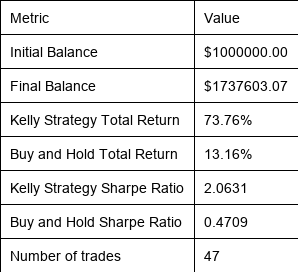
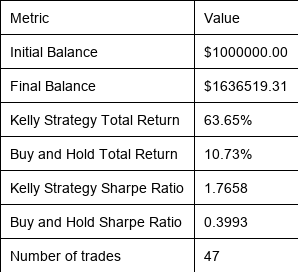
Updated at 04-22-2025 10:28:49

diff --git a/result/result.md b/result/result.md
@@ -1,9 +1,9 @@
 | Metric | Value |
 | --- | --- |
 | Initial Balance | $1000000.00 |
-| Final Balance | $1737603.07 |
-| Kelly Strategy Total Return | 73.76% |
-| Buy and Hold Total Return | 13.16% |
-| Kelly Strategy Sharpe Ratio | 2.0631 |
-| Buy and Hold Sharpe Ratio | 0.4709 |
+| Final Balance | $1636519.31 |
+| Kelly Strategy Total Return | 63.65% |
+| Buy and Hold Total Return | 10.73% |
+| Kelly Strategy Sharpe Ratio | 1.7658 |
+| Buy and Hold Sharpe Ratio | 0.3993 |
 | Number of trades | 47 |
